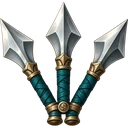
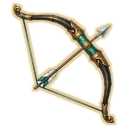
Biểu tượng nghề Xạ thủ mới (cung và tên), script cắt nền thêm xoay và viền sáng

diff --git a/docs/06-art/prompts/icon-nghe-xa-thu.md b/docs/06-art/prompts/icon-nghe-xa-thu.md
@@ -1,7 +1,7 @@
 # Prompt vẽ lại biểu tượng nghề Xạ thủ
 
 > Cập nhật: 02/11/2026
-> Trạng thái: **DRAFT** — Shan thấy biểu tượng hiện tại (ba mũi phi tiêu xòe, cán quấn dây xanh) khó phân biệt với Sát thủ (hai dao găm bắt chéo); cần vẽ lại. Chưa có ảnh mới. Biểu tượng cũ vẫn dùng ở `public/art/professions/xaThu.webp` cho tới khi thay.
+> Trạng thái: **IMPLEMENTED** (02/11/2026) — Shan thấy biểu tượng cũ (ba mũi phi tiêu xòe, cán quấn dây xanh) khó phân biệt với Sát thủ (hai dao găm bắt chéo). Ảnh mới (cung tre và mũi tên) do Shan tạo từ prompt dưới đây đã thay `public/art/professions/xaThu.webp`.
 
 ## Vì sao phải đổi
 
@@ -30,3 +30,13 @@ Background: one flat solid plain light grey color #F2F2F2, completely uniform, n
 2. Cắt nền thành trong suốt bằng `scripts/cutout-formation-icon.py` (cần Pillow, numpy, scipy). Prompt dùng nền xám sáng phẳng (#F2F2F2) vì script cắt các điểm sáng, ít bão hòa, liền với mép ảnh; lệnh: `python3 scripts/cutout-formation-icon.py <ảnh vào> public/art/professions/xaThu.webp 128`. Lông vũ trắng của mũi tên nằm trong viền tối nên không bị cắt nhầm; nếu có, hạ ngưỡng sáng (tham số thứ 4, mặc định 205) hoặc cho lông vũ màu xanh ngọc.
 3. Lưu `public/art/professions/xaThu.webp` (128×128, WebP, nền trong suốt) thay tệp cũ. `ProfessionIcon` và huy hiệu quân tự dùng ảnh mới.
 4. Kiểm tra ở cỡ nhỏ nhất (khoảng 12 px) và đặt cạnh biểu tượng Sát thủ: nhìn ngay phải phân biệt được.
+
+## Đã tích hợp
+
+Ảnh gốc là cung dựng dọc, chiếm khung vuông rất ít và nét cung tối khó đọc trên nền huy hiệu tối. Đã cắt nền bằng `scripts/cutout-formation-icon.py` với **xoay 40° ngược chiều kim đồng hồ** (cung nằm chéo như ngọn giáo của Binh lính, đầy khung hơn) và **viền sáng 2 px** (#E4CC99, giữ dây cung và thân cung đọc được ở 12–24 px):
+
+```bash
+python3 scripts/cutout-formation-icon.py <ảnh gốc> public/art/professions/xaThu.webp 128 205 40 2
+```
+
+Ở cỡ 12–24 px, hình cung chéo và mũi tên khác rõ với chữ X của dao găm Sát thủ. Biểu tượng này cũng hiện ở mọi nơi dùng `ProfessionIcon` (huy hiệu quân, danh sách nhân vật, trang bị).

diff --git a/docs/README.md b/docs/README.md
@@ -78,7 +78,7 @@ Bản đồ duy nhất dẫn vào tài liệu. Mỗi khái niệm có **một** 
 | [prompts/dinh-bo-linh-xa-thu-sat-thu.md](06-art/prompts/dinh-bo-linh-xa-thu-sat-thu.md) | Biến thể vũ khí cung tre/dao găm cho rig Đinh Bộ Lĩnh và các prompt Master/tư thế; DRAFT, chưa có ảnh |
 | [prompts/tran-do-hinh-anh.md](06-art/prompts/tran-do-hinh-anh.md) | Prompt đầy đủ cho Trận Đồ: 30 bản đồ (địa danh thời Loạn 12 sứ quân và cảnh quan, kho không giới hạn), ô che đặc kín, 4 icon chướng ngại; DRAFT, ảnh chưa có |
 | [prompts/tran-do-video-huong-dan.md](06-art/prompts/tran-do-video-huong-dan.md) | Prompt Veo 3 cho video hướng dẫn cách chơi Trận Đồ (sa bàn gỗ, lời dẫn tiếng Việt) và gợi ý nối 4 cảnh; DRAFT |
-| [prompts/icon-nghe-xa-thu.md](06-art/prompts/icon-nghe-xa-thu.md) | Prompt vẽ lại biểu tượng nghề Xạ thủ (cung và tên, khác hẳn dao găm của Sát thủ); DRAFT, chưa có ảnh |
+| [prompts/icon-nghe-xa-thu.md](06-art/prompts/icon-nghe-xa-thu.md) | Prompt và cách tích hợp biểu tượng nghề Xạ thủ mới (cung và tên, khác hẳn dao găm của Sát thủ); IMPLEMENTED |
 | [prompts/dinh-ngoc.md](06-art/prompts/dinh-ngoc.md) | Character DNA, trang phục lấy cảm hứng thế kỷ X, một kiếm/một mặt ngọc và6 prompt cho Đinh Ngọc; DRAFT, chưa duyệt Master |
 | [nhan-vat/nguyen-bac.md](06-art/nhan-vat/nguyen-bac.md) | Hình động Nguyễn Bặc |
 | [ho-so-master-chat.md](06-art/ho-so-master-chat.md) | Ngữ cảnh cho chat mới về dựng hình nhân vật: kiến trúc rig và hiệu ứng, quy trình từ bộ 5 ảnh, tiến độ |

diff --git a/docs/decisions/changelog.md b/docs/decisions/changelog.md
@@ -2,6 +2,9 @@
 
 ## 02/11/2026
 
+**Biểu tượng nghề Xạ thủ mới**
+- Biểu tượng cũ (ba mũi phi tiêu) lẫn với Sát thủ ở cỡ nhỏ; thay bằng cung tre và mũi tên do Shan tạo ([prompt và cách tích hợp](../06-art/prompts/icon-nghe-xa-thu.md)). Script cắt nền thêm tham số xoay và viền sáng.
+
 **Trận Đồ: sửa chân dung quân kế tiếp hiện trễ 1–2 giây**
 - Nguyên nhân: chân dung là ảnh WebP nạp trong SVG, chỉ tải khi quân xuất hiện lần đầu nên ô nền và huy hiệu hiện ngay còn gương mặt trễ. Giờ vào màn chơi là tải sẵn (và giải mã) chân dung của mọi quân có thể ra trong bộ luật đang chơi, các bậc khác tải lúc rảnh (`src/app/game/formation/preload.ts`).
 
